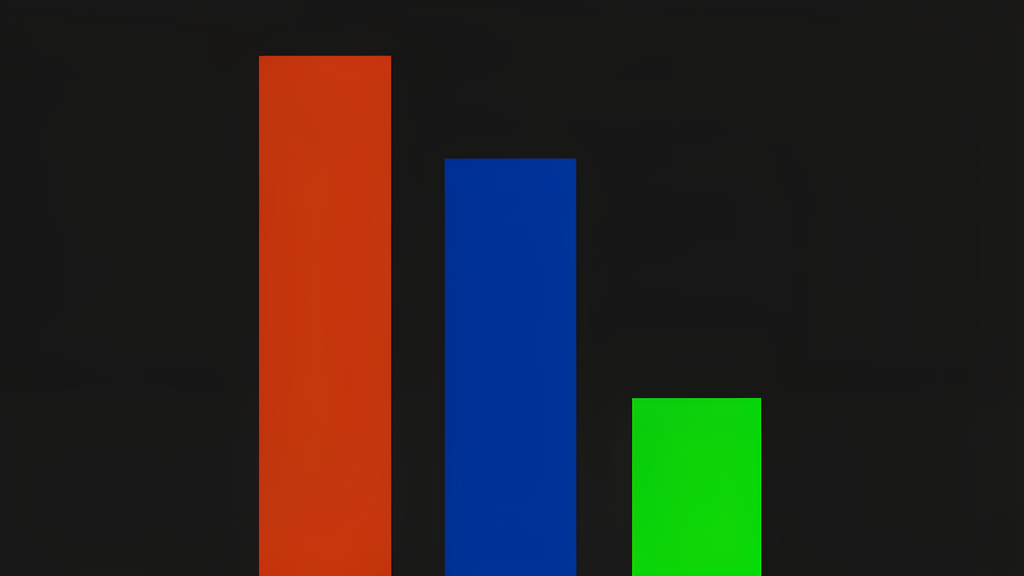
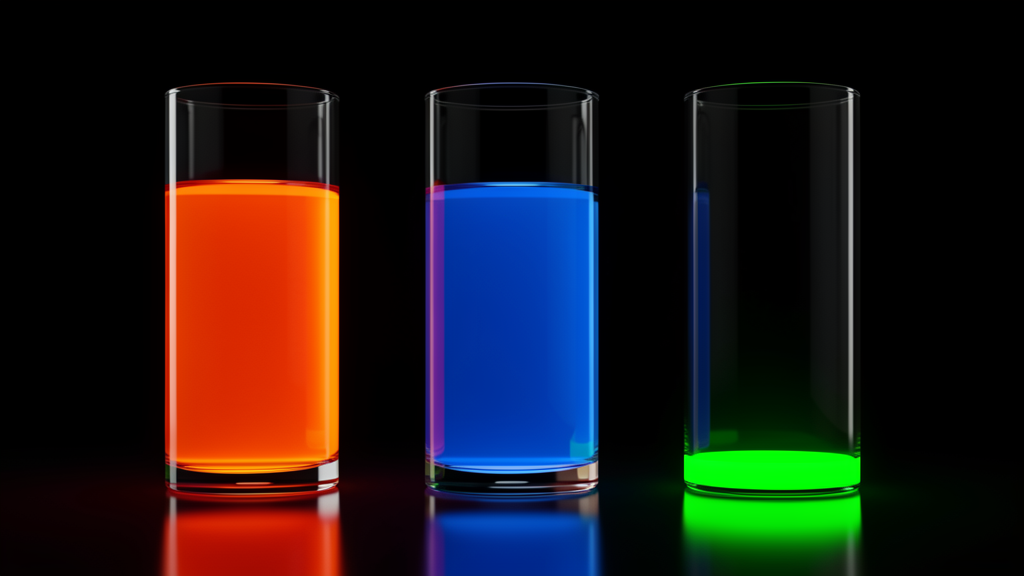
visuals: Qwen-Image-2512 optimized prompts (avg 4.96/5.0)
Structured format, concrete geometry, front-loaded subjects.
All 3 images validated with vision_analyze.

diff --git a/src/content/blog/composer-2-5-frontier-coding-at-commodity-pricing.md b/src/content/blog/composer-2-5-frontier-coding-at-commodity-pricing.md
@@ -9,10 +9,10 @@ mediumUrl: "https://medium.com/@gvelosa/composer-2-5-TBD"
 canonicalUrl: "https://medium.com/@gvelosa/composer-2-5-TBD"
 ---
 
-![Cover: expensive models towering over a small but powerful beacon](./composer-2-5-frontier-coding-at-commodity-pricing/./composer-2-5-frontier-coding-at-commodity-pricing/images/cover.png)
+![Cover: tiny hummingbird-drone with golden beam dominating a massive blue monolith](./composer-2-5-frontier-coding-at-commodity-pricing/./composer-2-5-frontier-coding-at-commodity-pricing/images/cover.png)
 
 
-![Cost per task: Composer 2.5 vs Opus 4.7 vs GPT-5.5](./composer-2-5-frontier-coding-at-commodity-pricing/./composer-2-5-frontier-coding-at-commodity-pricing/images/cost-comparison.png)
+![Cost comparison: three glass cylinders, two nearly full, one almost empty with vivid green glow](./composer-2-5-frontier-coding-at-commodity-pricing/./composer-2-5-frontier-coding-at-commodity-pricing/images/cost-comparison.png)
 
 The AI coding space has a new problem, and it's a good one: too many models are getting too good.
 
